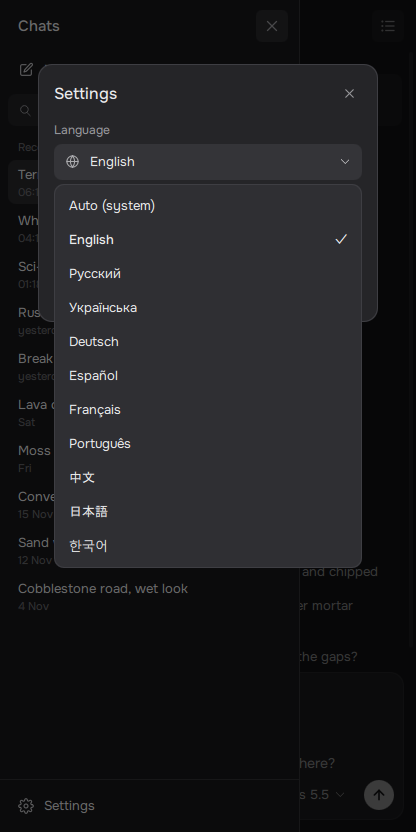
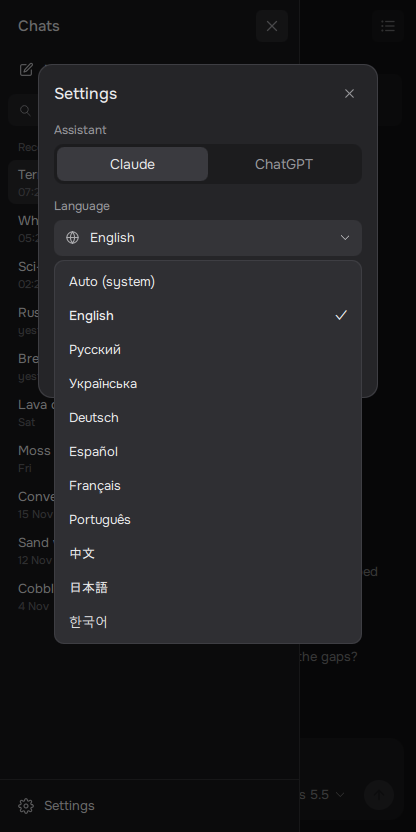
Release 1.1.1: new screenshots, changelog

diff --git a/CHANGELOG.md b/CHANGELOG.md
@@ -1,11 +1,12 @@
 # Changelog
 
-## Unreleased
+## 1.1.1 — 2026-11-24
 
 - Security: the local Designer bridge now requires a per-session random token (stored in `bridge.json` in the GraphPilot data folder). Other users and programs without access to your profile can no longer run code in Designer.
 - Library nodes: the library package opened to place a node is closed again, so packages no longer pile up in the Explorer.
 - README: Windows is the supported platform; macOS is untested.
 - New GraphPilot logo (panel welcome screen and README).
+- Fallback panel (used only if the main panel fails to load) is now in English and works with both assistants.
 
 ## 1.1.0 — 2026-11-24
 

diff --git a/README.md b/README.md
@@ -19,7 +19,7 @@ Works with **[Claude Code](https://claude.com/claude-code)** or **[OpenAI Codex]
     <td align="center"><img src="docs/images/models.png" width="260" alt="Model picker"><br><sub>Always the newest models</sub></td>
   </tr>
   <tr>
-    <td align="center"><img src="docs/images/settings.png" width="260" alt="Settings"><br><sub>Fonts: Onest, Inter, system</sub></td>
+    <td align="center"><img src="docs/images/settings.png" width="260" alt="Settings"><br><sub>Claude or ChatGPT, fonts</sub></td>
     <td align="center"><img src="docs/images/languages.png" width="260" alt="Languages"><br><sub>10 interface languages</sub></td>
     <td></td>
   </tr>
